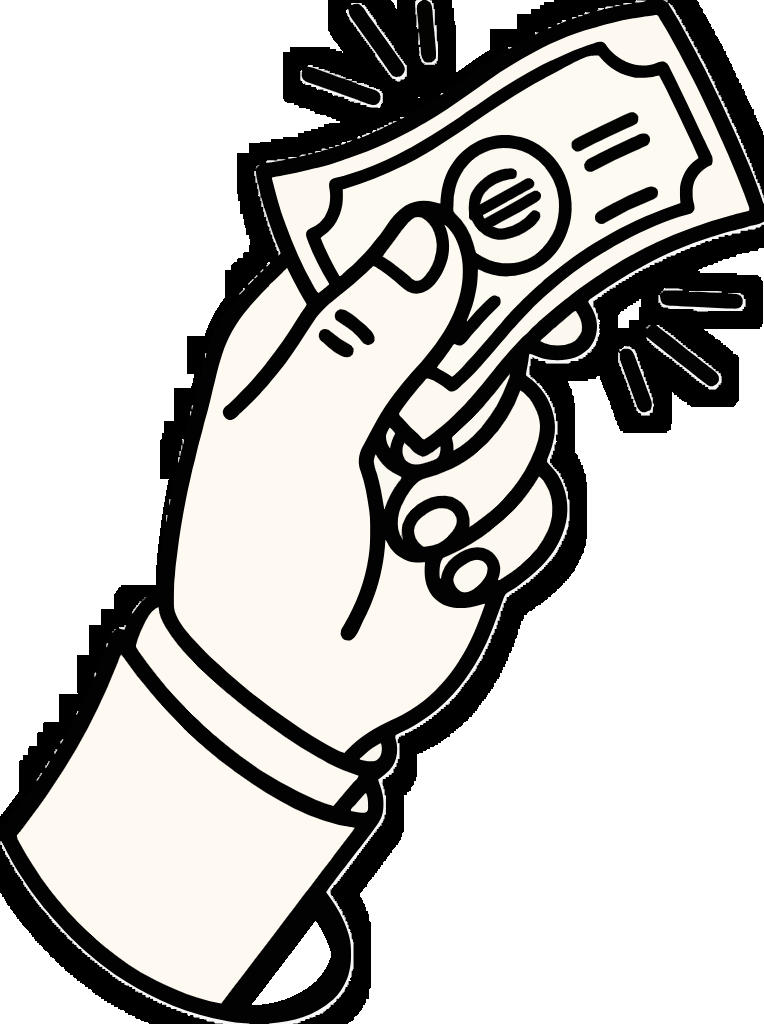
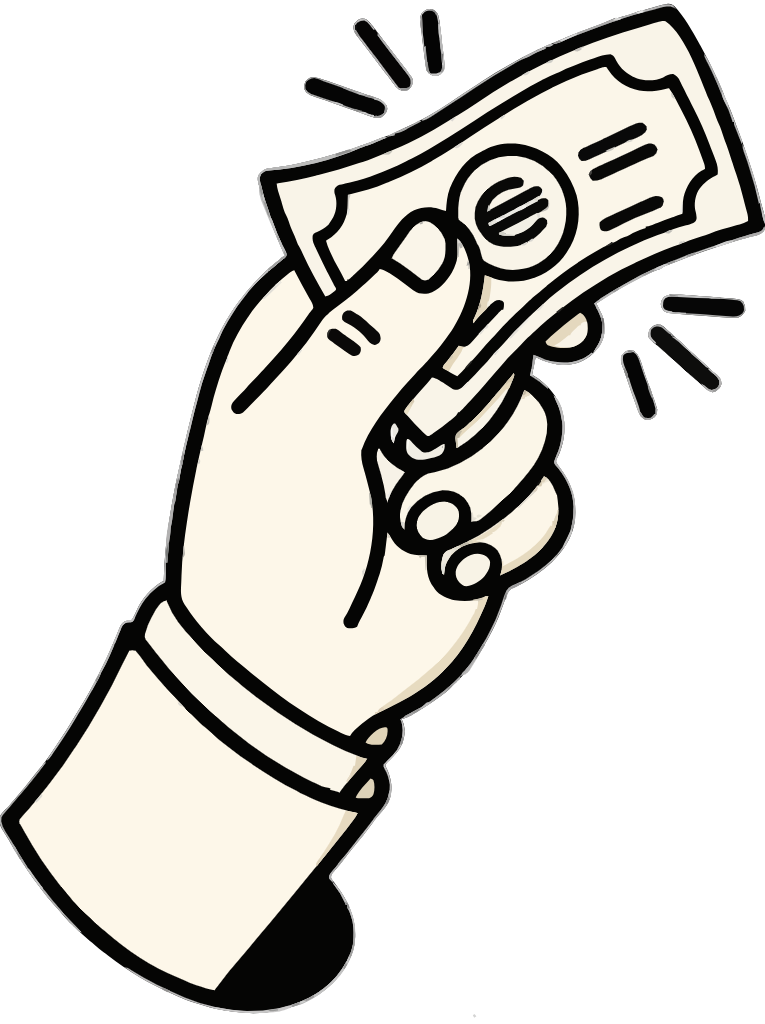
Replace the landing illustrations with the new hand drawings
The hero, cohort, commitment cards, how-it-works column, and footer now use the new bill, diamond, handshake, lock, and fist-bump art, in the same pop-in spots as before.

Changed region(s): [[0.0, 0.0, 1.0, 1.0]]

diff --git a/frontend/components/HomeExperience.tsx b/frontend/components/HomeExperience.tsx
@@ -142,11 +142,11 @@ export function HomeExperience() {
           <div className="hero-hands" aria-hidden>
             <div className="hand hand-paper" data-reveal="hand" style={wait(0.15)}>
               {/* eslint-disable-next-line @next/next/no-img-element */}
-              <img alt="" height={1024} src="/assets/paperhands/illustrations/bill.png" width={764} />
+              <img alt="" height={1024} src="/assets/paperhands/illustrations/bill.png" width={765} />
             </div>
             <div className="hand hand-diamond" data-reveal="hand" style={wait(0.4)}>
               {/* eslint-disable-next-line @next/next/no-img-element */}
-              <img alt="" height={1024} src="/assets/paperhands/illustrations/diamond.png" width={824} />
+              <img alt="" height={1024} src="/assets/paperhands/illustrations/diamond.png" width={775} />
             </div>
           </div>
           <div className="hero-copy relative z-10 mx-auto max-w-3xl text-center" data-reveal="soft">
@@ -186,7 +186,7 @@ export function HomeExperience() {
         <div className="text-center" data-reveal="soft">
           <div className="mx-auto w-fit" data-reveal="hand">
             {/* eslint-disable-next-line @next/next/no-img-element */}
-            <img alt="" className="h-44 w-auto" height={757} src="/assets/paperhands/illustrations/handshake.png" width={764} />
+            <img alt="" className="h-44 w-auto" height={847} src="/assets/paperhands/illustrations/handshake.png" width={894} />
           </div>
           <p className="eyebrow mt-2">Live community</p>
         <h2 className="display-md mt-3 text-center">
@@ -216,7 +216,7 @@ export function HomeExperience() {
         <div className="mt-8 grid gap-4 lg:grid-cols-2">
           <article className="card p-6" data-reveal="tilt">
             {/* eslint-disable-next-line @next/next/no-img-element */}
-            <img alt="" className="card-art" height={1024} src="/assets/paperhands/illustrations/bill.png" width={764} />
+            <img alt="" className="card-art" height={1024} src="/assets/paperhands/illustrations/bill.png" width={765} />
             <h3 className="mt-2 font-display text-4xl">Paper hands</h3>
             <ul className="mt-4 space-y-2 text-ink/80">
               <li>Leave after the entry window.</li>
@@ -226,7 +226,7 @@ export function HomeExperience() {
           </article>
           <article className="card forest p-6 text-cream" data-reveal="tilt-right" style={wait(0.12)}>
             {/* eslint-disable-next-line @next/next/no-img-element */}
-            <img alt="" className="card-art" height={1024} src="/assets/paperhands/illustrations/diamond.png" width={824} />
+            <img alt="" className="card-art" height={1024} src="/assets/paperhands/illustrations/diamond.png" width={775} />
             <h3 className="mt-2 font-display text-4xl">Diamond hands</h3>
             <ul className="mt-4 space-y-2 text-cream/85">
               <li>Remain committed through the epoch.</li>
@@ -258,7 +258,7 @@ export function HomeExperience() {
           <p className="mt-4 text-ink/75">Six actions. The contract is the one that moves PAPER. The buttons live on the commitment page.</p>
           <div className="mt-6 hidden w-fit lg:block" data-reveal="hand">
             {/* eslint-disable-next-line @next/next/no-img-element */}
-            <img alt="" className="h-64 w-auto" height={1024} src="/assets/paperhands/illustrations/lock.png" width={764} />
+            <img alt="" className="h-64 w-auto" height={1024} src="/assets/paperhands/illustrations/lock.png" width={747} />
           </div>
         </div>
         <ol className="grid gap-4">
@@ -395,7 +395,7 @@ export function HomeExperience() {
         <div className="grid gap-4 md:grid-cols-2">
           <div className="relative overflow-hidden rounded-[2rem] bg-forest p-6 text-cream" data-reveal>
             {/* eslint-disable-next-line @next/next/no-img-element */}
-            <img alt="" className="ml-auto h-28 w-auto" height={206} src="/assets/paperhands/illustrations/bump.png" width={240} />
+            <img alt="" className="ml-auto h-28 w-auto" height={211} src="/assets/paperhands/illustrations/bump.png" width={246} />
             <p className="font-display text-4xl">Weak hands. Strong rules.</p>
             <p className="mt-3 text-cream/80">PAPERHANDS on NEAR. The faucet is not Sybil-proof.</p>
           </div>

diff --git a/frontend/app/commitment/page.tsx b/frontend/app/commitment/page.tsx
@@ -88,7 +88,7 @@ export default function CommitmentPage() {
       <div className="grid gap-4 lg:grid-cols-[1.1fr_0.9fr]">
         <article className="card overflow-hidden p-6">
           {/* eslint-disable-next-line @next/next/no-img-element */}
-          <img alt="" className="card-art" height={1024} src="/assets/paperhands/illustrations/bill.png" width={764} />
+          <img alt="" className="card-art" height={1024} src="/assets/paperhands/illustrations/bill.png" width={765} />
           <h2 className="font-display text-4xl">Paper hands</h2>
           <ul className="mt-4 space-y-2 text-ink/80">
             <li>Leave after the entry window and before the epoch ends.</li>
@@ -98,7 +98,7 @@ export default function CommitmentPage() {
         </article>
         <article className="card forest overflow-hidden p-6 text-cream">
           {/* eslint-disable-next-line @next/next/no-img-element */}
-          <img alt="" className="card-art" height={1024} src="/assets/paperhands/illustrations/diamond.png" width={824} />
+          <img alt="" className="card-art" height={1024} src="/assets/paperhands/illustrations/diamond.png" width={775} />
           <h2 className="font-display text-4xl">Diamond hands</h2>
           <ul className="mt-4 space-y-2 text-cream/85">
             <li>Stay through the epoch.</li>
